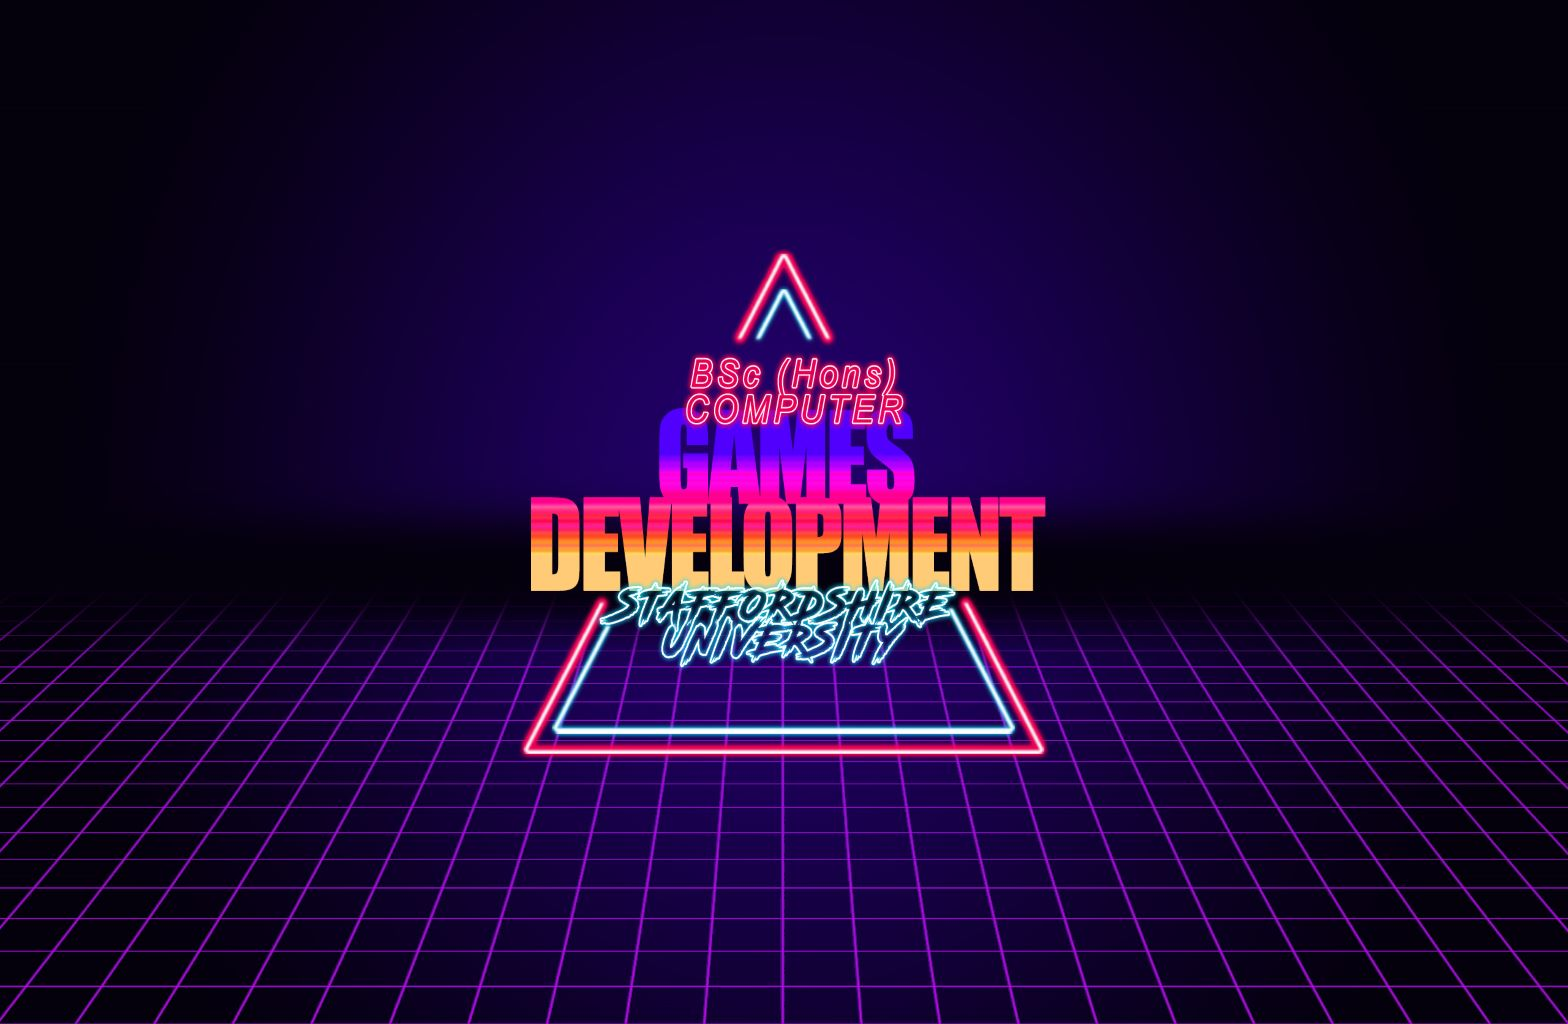
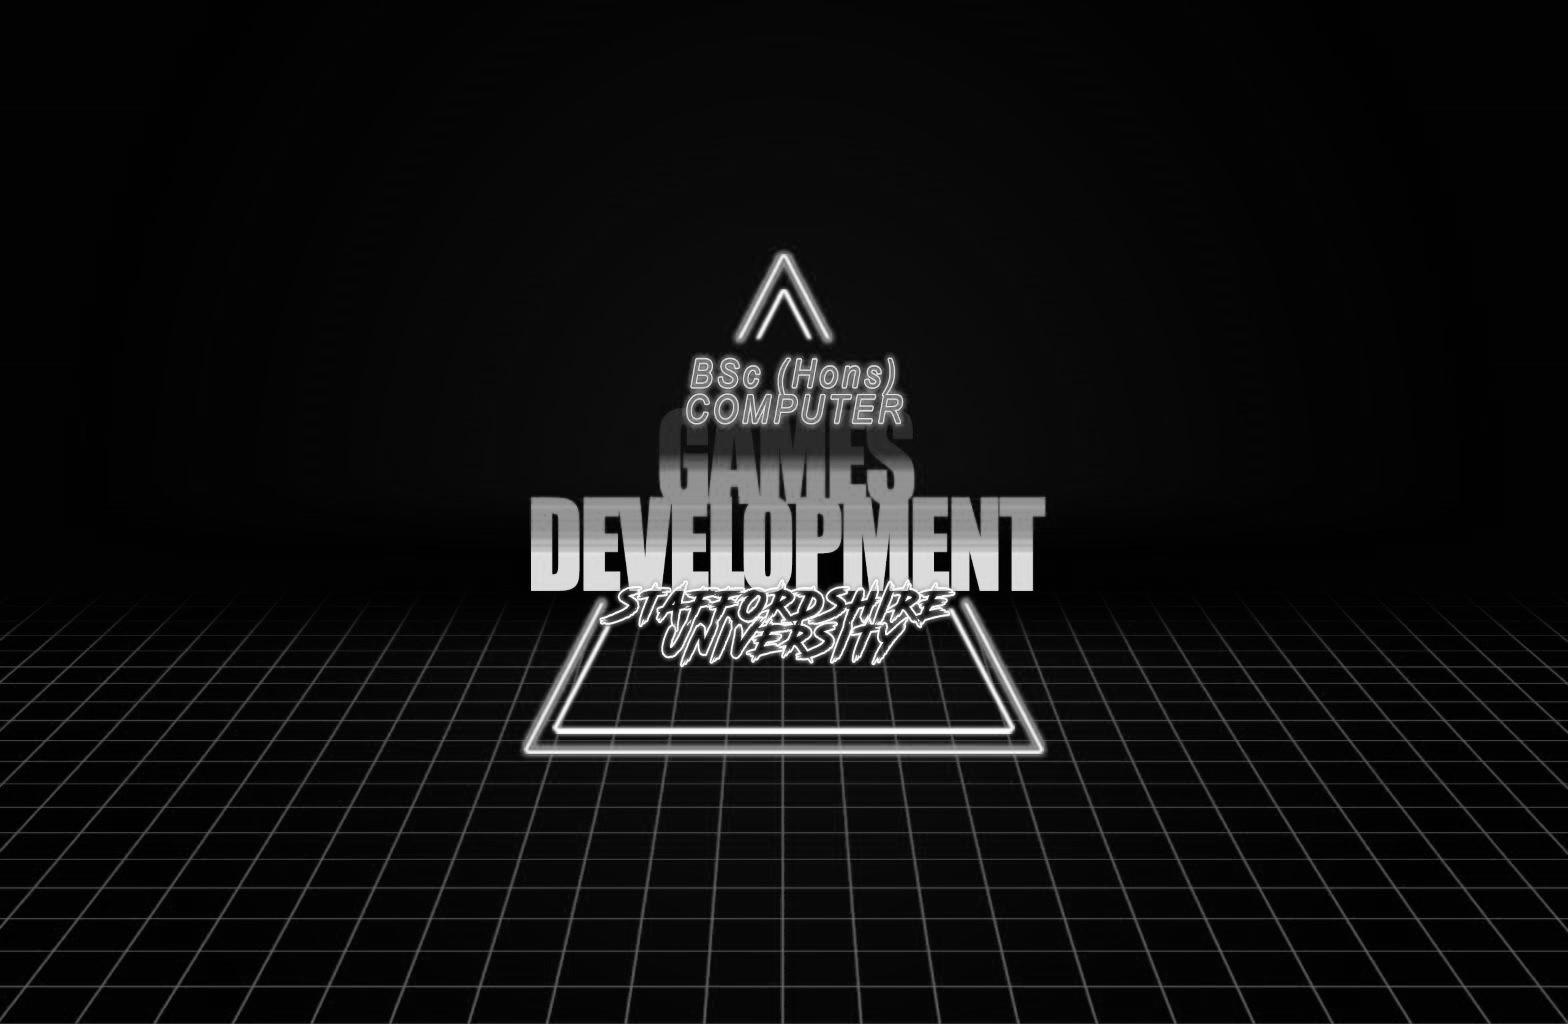
Minor changes
Changed background for the portfolio, edited the html text

diff --git a/index.html b/index.html
@@ -26,8 +26,8 @@
 							<div class="inner">
 								<h1>Sage Ekpang</h1>
 								<h2> Welcome to my Portfolio </h2>
-								<p>C++ | C# | Unreal Engine | Unity </p>
-								<p>For more information feel free to contact me or go to one of my social media</p>
+								<p> <strong> C++ | C# | Unreal Engine | Unity </strong> </p>
+								<p> <strong> For more information feel free to contact me or go to one of my social media </strong></p>
 							</div>
 						</div>
 						<nav>
@@ -71,7 +71,7 @@
 						<!-- Contact -->
 							<article id="contact">
 								<h2 class="major">Contact</h2>
-								<form method="post" action="#">
+								<!--<form method="post" action="#">
 									<div class="fields">
 										<div class="field half">
 											<label for="name">Name</label>
@@ -90,10 +90,11 @@
 										<li><input type="submit" value="Send Message" class="primary" /></li>
 										<li><input type="reset" value="Reset" /></li>
 									</ul>
-								</form>
+								</form>-->
 								<ul class="icons">
-									<li><a href="#" class="icon brands fa-twitter"><span class="label">Twitter</span></a></li>
-									<li><a href="#" class="icon brands fa-facebook-f"><span class="label">Facebook</span></a></li>
+									<p> Moto: <strong> "Fail to Prepare, Prepare to fail" </strong> </p>
+									<p> Personal Email: <strong> Sageek268@hotmail.com </strong> </p>
+									<li><a href="https://www.linkedin.com/in/sageekpang/" class="icon brands fa-linkedin-in"><span class="label">LinkedIn</span></a></li>
 									<li><a href="https://www.instagram.com/sage_art26/" class="icon brands fa-instagram"><span class="label">Instagram</span></a></li>
 									<li><a href="https://github.com/SageEkpang" class="icon brands fa-github-alt"><span class="label">GitHub</span></a></li>
 								</ul>
